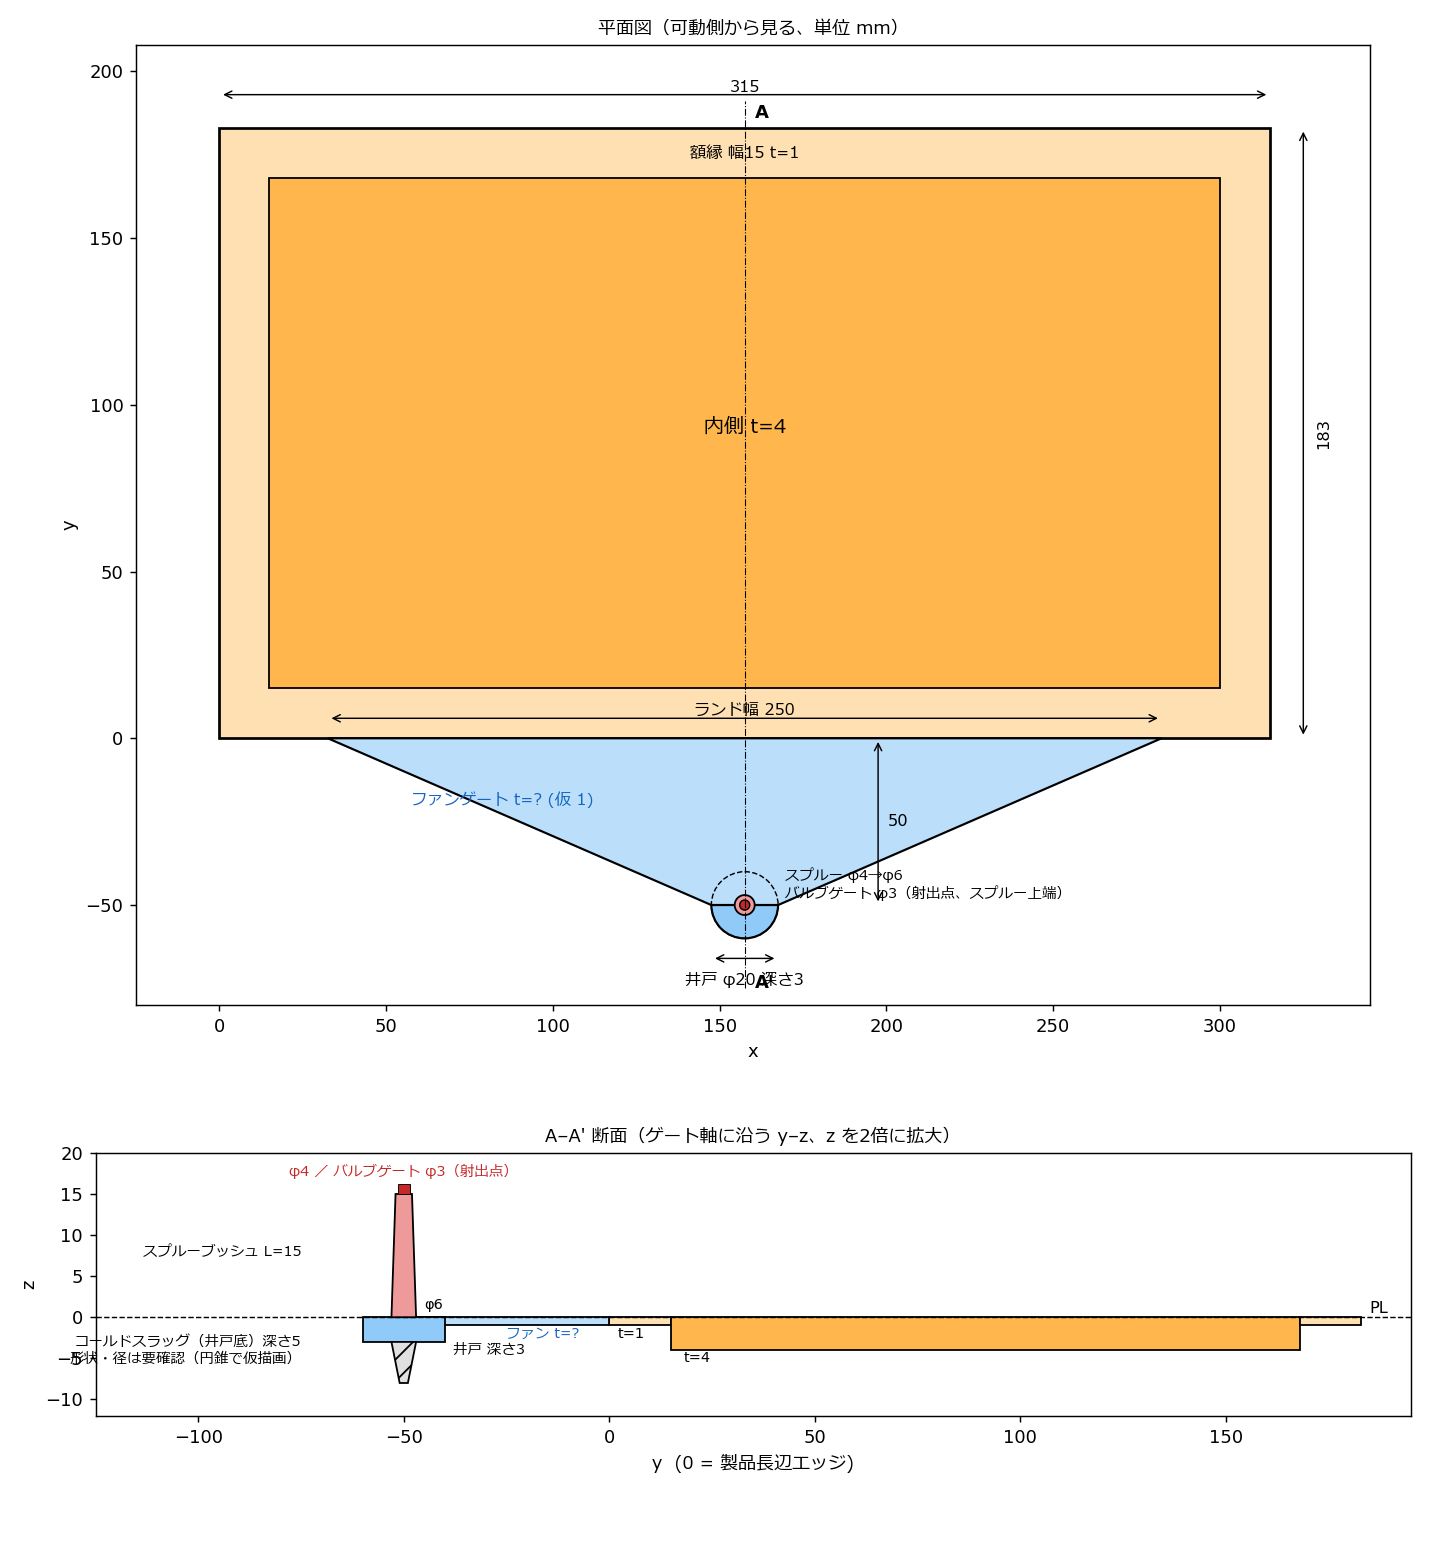
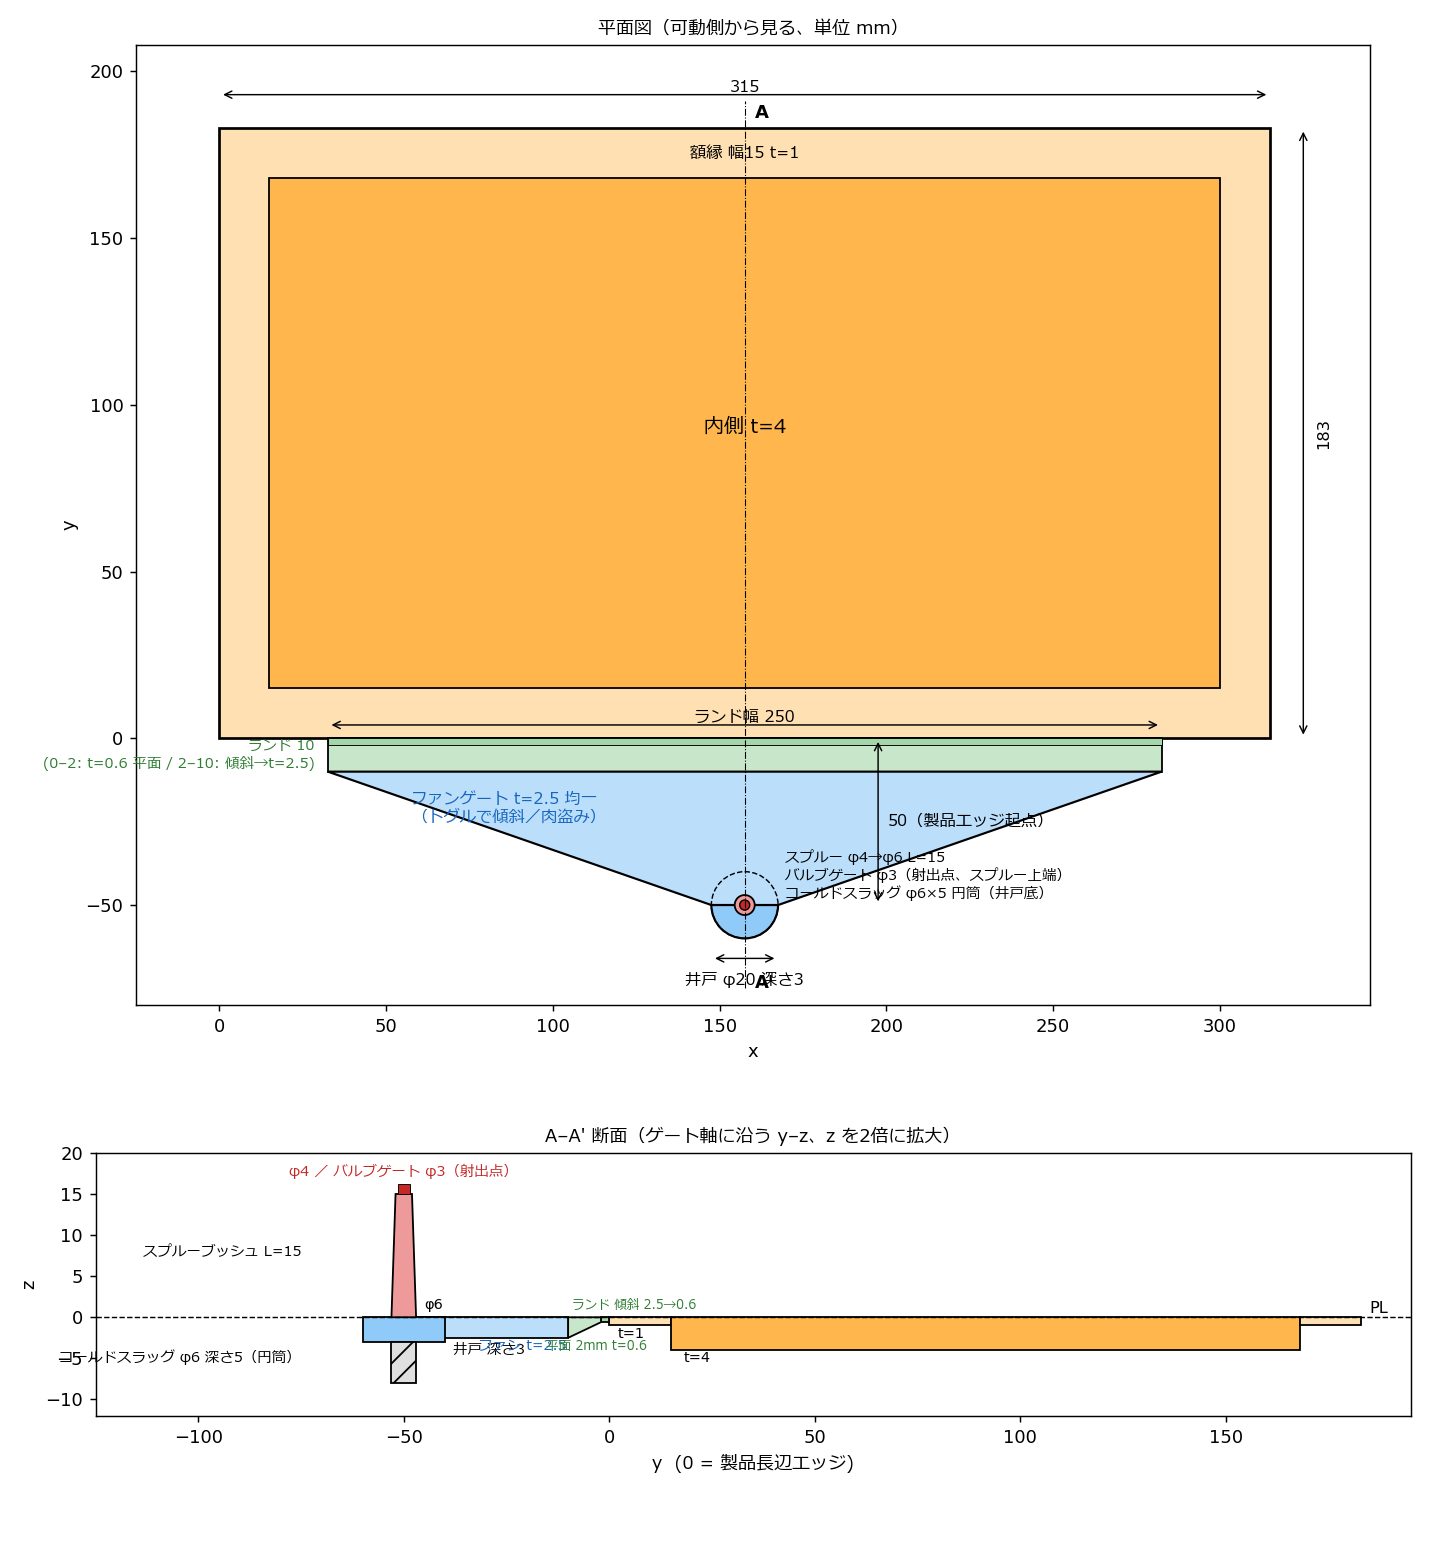
docs(draft): ランド帯（10mm: 2mm平面0.6 + 傾斜→2.5）、ファン2.5均一、コールドスラッグ円筒φ6×5
Claude-Session: https://claude.ai/code/session_01AA2Bd1Upa6qGqLaZaP4VjF

diff --git a/docs/draft/geometry_draft.py b/docs/draft/geometry_draft.py
@@ -1,4 +1,4 @@
-"""Draft sketch of the fan-gate plate geometry (parameters from 2026-08-27 spec)."""
+"""Draft sketch of the fan-gate plate geometry (spec as of 2026-08-27, after photo review)."""
 import matplotlib
 matplotlib.use("Agg")
 import matplotlib.pyplot as plt
@@ -10,13 +10,16 @@ JP = FontProperties(fname="/mnt/c/Windows/Fonts/meiryo.ttc")
 # ---- parameters (mm) ----
 PW, PH = 315.0, 183.0        # product
 FRAME, T_FRAME, T_INNER = 15.0, 1.0, 4.0
-GATE_OFF = 50.0              # sprue axis distance from product long edge
-D_VALVE = 3.0                # valve gate dia (hot-runner valve at sprue top = injection point)
+GATE_OFF = 50.0              # sprue axis distance from product long edge (要確認: 製品エッジ起点)
+D_VALVE = 3.0                # hot-runner valve gate at sprue top = injection point
 WELL_D, WELL_DEPTH = 20.0, 3.0
-LAND_W = 250.0               # fan gate width at product edge
+LAND_W = 250.0               # land / fan width at product side
+LAND_L = 10.0                # land band length (product edge -> fan)
+LAND_FLAT_L, T_LAND_FLAT = 2.0, 0.6   # flat part next to product edge
+T_LAND_END = 2.5             # land thickness at fan end (ramp 0.6 -> 2.5 over 2..10 mm)
+T_FAN = 2.5                  # fan gate, uniform (toggle: taper / meat-steal like sim)
 SPRUE_L, SPRUE_TOP, SPRUE_BOT = 15.0, 4.0, 6.0
-SLUG_DEPTH = 5.0
-T_FAN = 1.0                  # fan gate thickness — NOT SPECIFIED (placeholder)
+SLUG_D, SLUG_DEPTH = 6.0, 5.0  # cold slug: cylinder under sprue axis, below well floor
 
 cx = PW / 2
 fig, (ax, az) = plt.subplots(2, 1, figsize=(11, 12), gridspec_kw={"height_ratios": [3, 1.6]})
@@ -24,7 +27,9 @@ fig, (ax, az) = plt.subplots(2, 1, figsize=(11, 12), gridspec_kw={"height_ratios
 # ================= plan view =================
 ax.add_patch(Rectangle((0, 0), PW, PH, fc="#ffe0b2", ec="k", lw=1.5))
 ax.add_patch(Rectangle((FRAME, FRAME), PW - 2 * FRAME, PH - 2 * FRAME, fc="#ffb74d", ec="k", lw=1))
-fan = [(cx - LAND_W / 2, 0), (cx + LAND_W / 2, 0), (cx + WELL_D / 2, -GATE_OFF), (cx - WELL_D / 2, -GATE_OFF)]
+ax.add_patch(Rectangle((cx - LAND_W / 2, -LAND_L), LAND_W, LAND_L, fc="#c8e6c9", ec="k", lw=1))
+ax.add_patch(Rectangle((cx - LAND_W / 2, -LAND_FLAT_L), LAND_W, LAND_FLAT_L, fc="#a5d6a7", ec="k", lw=0.5))
+fan = [(cx - LAND_W / 2, -LAND_L), (cx + LAND_W / 2, -LAND_L), (cx + WELL_D / 2, -GATE_OFF), (cx - WELL_D / 2, -GATE_OFF)]
 ax.add_patch(Polygon(fan, closed=True, fc="#bbdefb", ec="k", lw=1.2))
 ax.add_patch(Wedge((cx, -GATE_OFF), WELL_D / 2, 180, 360, fc="#90caf9", ec="k", lw=1.2))
 ax.add_patch(Circle((cx, -GATE_OFF), WELL_D / 2, fill=False, ec="k", ls="--", lw=0.8))
@@ -39,14 +44,17 @@ def dim(a, p0, p1, txt, off=0, **kw):
 dim(ax, (0, PH + 10), (PW, PH + 10), f"{PW:g}")
 ax.annotate("", (PW + 10, 0), (PW + 10, PH), arrowprops=dict(arrowstyle="<->", lw=0.8))
 ax.text(PW + 14, PH / 2, f"{PH:g}", va="center", fontsize=9, rotation=90)
-dim(ax, (cx - LAND_W / 2, 6), (cx + LAND_W / 2, 6), f"ランド幅 {LAND_W:g}")
+dim(ax, (cx - LAND_W / 2, 4), (cx + LAND_W / 2, 4), f"ランド幅 {LAND_W:g}")
+ax.text(cx - LAND_W / 2 - 4, -LAND_L / 2, f"ランド {LAND_L:g}\n(0–{LAND_FLAT_L:g}: t={T_LAND_FLAT:g} 平面 / {LAND_FLAT_L:g}–{LAND_L:g}: 傾斜→t={T_LAND_END:g})",
+        ha="right", va="center", fontsize=8, fontproperties=JP, color="#2e7d32")
 ax.annotate("", (cx + 40, 0), (cx + 40, -GATE_OFF), arrowprops=dict(arrowstyle="<->", lw=0.8))
-ax.text(cx + 43, -GATE_OFF / 2, f"{GATE_OFF:g}", va="center", fontsize=9)
+ax.text(cx + 43, -GATE_OFF / 2, f"{GATE_OFF:g}（製品エッジ起点）", va="center", fontsize=9, fontproperties=JP)
 dim(ax, (cx - WELL_D / 2, -GATE_OFF - 16), (cx + WELL_D / 2, -GATE_OFF - 16), f"井戸 φ{WELL_D:g} 深さ{WELL_DEPTH:g}", off=-9)
-ax.text(cx + 12, -GATE_OFF + 2, f"スプルー φ{SPRUE_TOP:g}→φ{SPRUE_BOT:g}\nバルブゲート φ{D_VALVE:g}（射出点、スプルー上端）", fontsize=8, fontproperties=JP)
+ax.text(cx + 12, -GATE_OFF + 2, f"スプルー φ{SPRUE_TOP:g}→φ{SPRUE_BOT:g} L={SPRUE_L:g}\nバルブゲート φ{D_VALVE:g}（射出点、スプルー上端）\nコールドスラッグ φ{SLUG_D:g}×{SLUG_DEPTH:g} 円筒（井戸底）",
+        fontsize=8, fontproperties=JP)
 ax.text(PW / 2, PH / 2, f"内側 t={T_INNER:g}", ha="center", fontsize=11, fontproperties=JP)
 ax.text(PW / 2, PH - FRAME / 2, f"額縁 幅{FRAME:g} t={T_FRAME:g}", ha="center", va="center", fontsize=9, fontproperties=JP)
-ax.text(cx - 100, -20, f"ファンゲート t=? (仮 {T_FAN:g})", fontsize=9, fontproperties=JP, color="#1565c0")
+ax.text(cx - 100, -25, f"ファンゲート t={T_FAN:g} 均一\n（トグルで傾斜／肉盗み）", fontsize=9, fontproperties=JP, color="#1565c0")
 ax.text(cx + 3, PH + 3, "A", fontsize=10, fontweight="bold"); ax.text(cx + 3, -75, "A'", fontsize=10, fontweight="bold")
 ax.plot([cx, cx], [-75, PH + 8], "k-.", lw=0.6)
 ax.set_xlim(-25, PW + 30); ax.set_ylim(-80, PH + 25); ax.set_aspect("equal")
@@ -54,25 +62,28 @@ ax.set_title("平面図（可動側から見る、単位 mm）", fontproperties=
 ax.set_xlabel("x"); ax.set_ylabel("y")
 
 # ================= section along gate axis (y–z) =================
-# z=0 parting line; product/gate cut into moving side (z<0) for the sketch
 az.add_patch(Rectangle((0, -T_FRAME), FRAME, T_FRAME, fc="#ffe0b2", ec="k"))
 az.add_patch(Rectangle((FRAME, -T_INNER), PH - 2 * FRAME, T_INNER, fc="#ffb74d", ec="k"))
 az.add_patch(Rectangle((PH - FRAME, -T_FRAME), FRAME, T_FRAME, fc="#ffe0b2", ec="k"))
-az.add_patch(Rectangle((-GATE_OFF, -T_FAN), GATE_OFF, T_FAN, fc="#bbdefb", ec="k"))
+az.add_patch(Rectangle((-LAND_FLAT_L, -T_LAND_FLAT), LAND_FLAT_L, T_LAND_FLAT, fc="#a5d6a7", ec="k"))
+ramp = [(-LAND_FLAT_L, 0), (-LAND_L, 0), (-LAND_L, -T_LAND_END), (-LAND_FLAT_L, -T_LAND_FLAT)]
+az.add_patch(Polygon(ramp, closed=True, fc="#c8e6c9", ec="k"))
+az.add_patch(Rectangle((-GATE_OFF, -T_FAN), GATE_OFF - LAND_L, T_FAN, fc="#bbdefb", ec="k"))
 az.add_patch(Rectangle((-GATE_OFF - WELL_D / 2, -WELL_DEPTH), WELL_D, WELL_DEPTH, fc="#90caf9", ec="k"))
-slug = [(-GATE_OFF - SPRUE_BOT / 2, -WELL_DEPTH), (-GATE_OFF + SPRUE_BOT / 2, -WELL_DEPTH), (-GATE_OFF + 1.0, -WELL_DEPTH - SLUG_DEPTH), (-GATE_OFF - 1.0, -WELL_DEPTH - SLUG_DEPTH)]
-az.add_patch(Polygon(slug, closed=True, fc="#e0e0e0", ec="k", hatch="//"))
+az.add_patch(Rectangle((-GATE_OFF - SLUG_D / 2, -WELL_DEPTH - SLUG_DEPTH), SLUG_D, SLUG_DEPTH, fc="#e0e0e0", ec="k", hatch="//"))
 sprue = [(-GATE_OFF - SPRUE_BOT / 2, 0), (-GATE_OFF + SPRUE_BOT / 2, 0), (-GATE_OFF + SPRUE_TOP / 2, SPRUE_L), (-GATE_OFF - SPRUE_TOP / 2, SPRUE_L)]
 az.add_patch(Polygon(sprue, closed=True, fc="#ef9a9a", ec="k"))
+az.add_patch(Rectangle((-GATE_OFF - D_VALVE / 2, SPRUE_L), D_VALVE, 1.2, fc="#c62828", ec="k", lw=0.5))
 az.axhline(0, color="k", lw=0.8, ls="--")
 az.text(PH + 2, 0.5, "PL", fontsize=9)
-az.add_patch(Rectangle((-GATE_OFF - D_VALVE / 2, SPRUE_L), D_VALVE, 1.2, fc="#c62828", ec="k", lw=0.5))
 az.text(-GATE_OFF, SPRUE_L + 2.2, f"φ{SPRUE_TOP:g} ／ バルブゲート φ{D_VALVE:g}（射出点）", ha="center", fontsize=8, fontproperties=JP, color="#c62828")
 az.text(-GATE_OFF + 5, 1, f"φ{SPRUE_BOT:g}", fontsize=8)
 az.text(-GATE_OFF - 25, SPRUE_L / 2, f"スプルーブッシュ L={SPRUE_L:g}", fontsize=8, fontproperties=JP, ha="right")
-az.text(-GATE_OFF - 25, -WELL_DEPTH - SLUG_DEPTH / 2, f"コールドスラッグ（井戸底）深さ{SLUG_DEPTH:g}\n形状・径は要確認（円錐で仮描画）", fontsize=8, fontproperties=JP, ha="right")
+az.text(-GATE_OFF - 25, -WELL_DEPTH - SLUG_DEPTH / 2, f"コールドスラッグ φ{SLUG_D:g} 深さ{SLUG_DEPTH:g}（円筒）", fontsize=8, fontproperties=JP, ha="right")
 az.text(-GATE_OFF + 12, -WELL_DEPTH - 1.5, f"井戸 深さ{WELL_DEPTH:g}", fontsize=8, fontproperties=JP)
-az.text(-25, -T_FAN - 1.5, "ファン t=?", fontsize=8, fontproperties=JP, color="#1565c0")
+az.text(-32, -T_FAN - 1.5, f"ファン t={T_FAN:g}", fontsize=8, fontproperties=JP, color="#1565c0")
+az.text(-LAND_L + 1, 1.0, f"ランド 傾斜 {T_LAND_END:g}→{T_LAND_FLAT:g}", fontsize=7, fontproperties=JP, color="#2e7d32")
+az.text(-LAND_FLAT_L - 1, -T_LAND_END - 1.5, f"平面 {LAND_FLAT_L:g}mm t={T_LAND_FLAT:g}", fontsize=7, fontproperties=JP, color="#2e7d32", ha="center")
 az.text(FRAME + 3, -T_INNER - 1.5, f"t={T_INNER:g}", fontsize=8)
 az.text(2, -T_FRAME - 1.5, f"t={T_FRAME:g}", fontsize=8)
 az.set_xlim(-GATE_OFF - 75, PH + 12); az.set_ylim(-12, SPRUE_L + 5)
